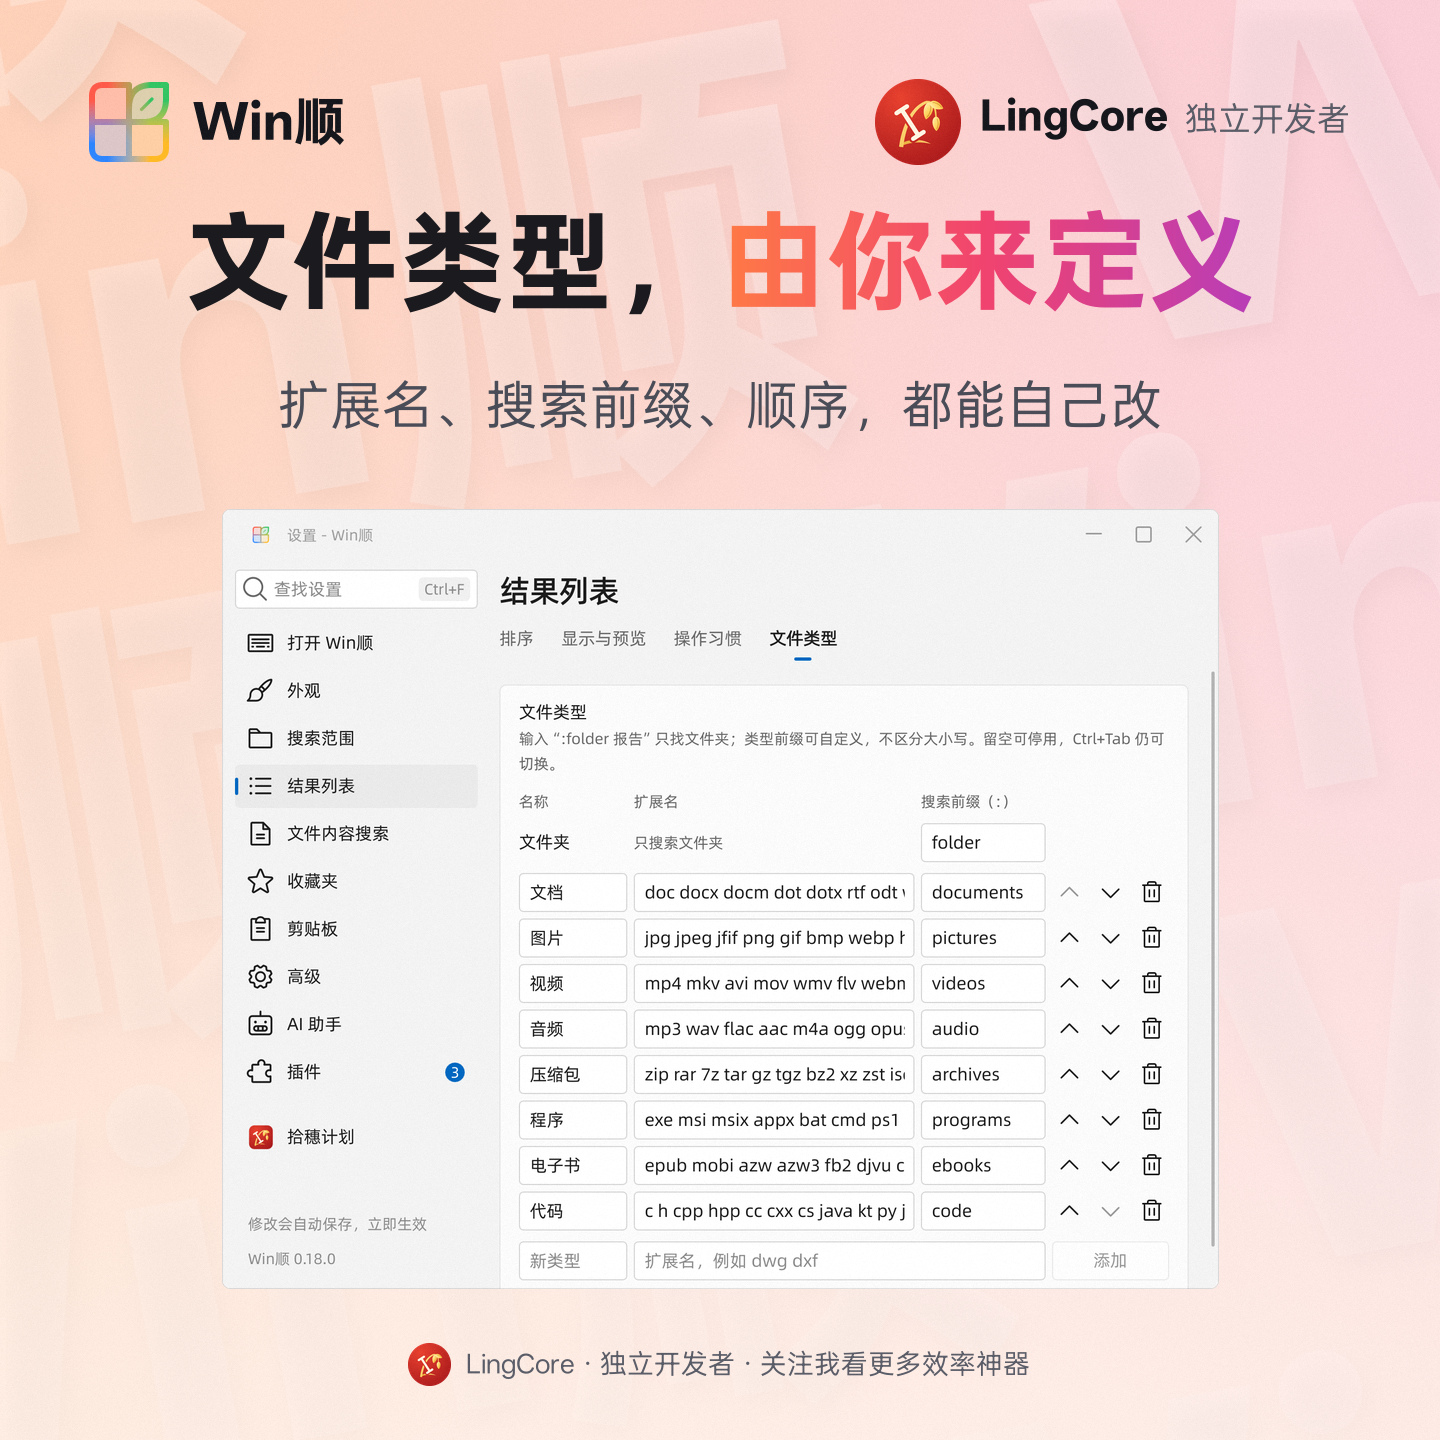
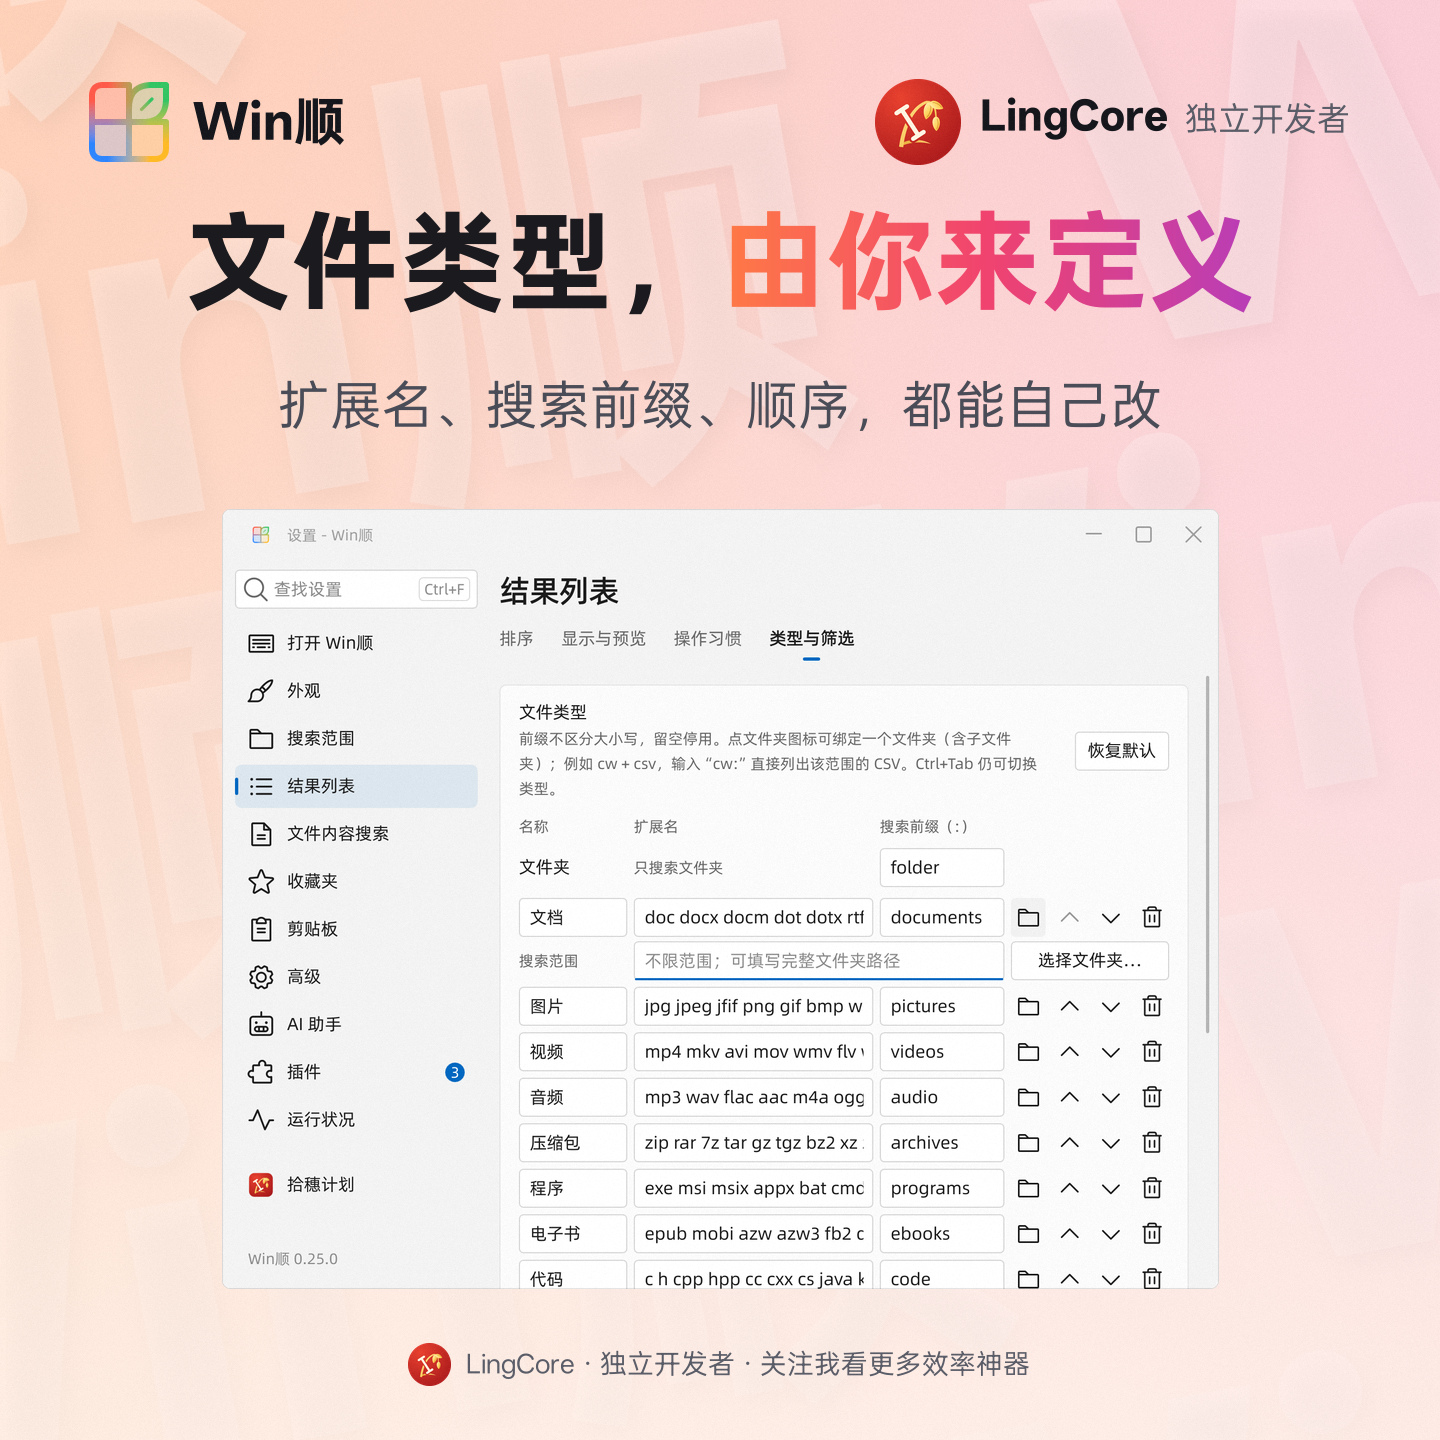
0.25.0 posters: quick filters (new), the first-run setup and the file types redone

diff --git a/tools/screenshots/release025.py b/tools/screenshots/release025.py
@@ -1,0 +1,95 @@
+"""Capture 0.25.0 production previews and export the posters this release changes.
+
+Use a fresh --work for --capture-only, inspect the PNGs and reports, then run
+--export-only with that directory (and --onboarding, the first page from
+tools/verify-onboarding.ps1's `capture` case). One poster is new: the quick
+filters' section of Settings > Result list > Kinds and filters, under a kind
+bound to a folder. The panel's own chips have no poster yet: the navigation
+checks narrow the window and hover a chip, so their pictures (kept under
+--work/navigation as evidence) show a tooltip over the labels. Two are redone because their windows
+changed: the first-run setup (two panes) and the file types (a kind bound to a
+folder, behind an icon button). The other posters stay as 0.24.0 left them.
+"""
+import argparse
+import hashlib
+import json
+import os
+from pathlib import Path
+import shutil
+import subprocess
+import sys
+
+sys.dont_write_bytecode = True
+
+from PIL import Image
+import release017
+import shots
+
+
+# (shot name, raw picture under --work, height kept from its top in pixels)
+release017.SOURCES = {
+    "quick-filters": ("L-quick-filters", "file-types/file-types-bottom.png", None),
+    "file-types": ("L-file-types", "file-types/file-types-top.png", None),
+    "onboarding": ("L-onboarding", "onboarding.png", None),
+}
+
+shots.README_ONLY = tuple(
+    ("onboarding", "L-onboarding", "第一次打开，[两步设好]", "左边试按键，右边做选择，一屏看完不用滚动")
+    if entry[0] == "onboarding" else entry for entry in shots.README_ONLY
+) + (
+    ("quick-filters", "L-quick-filters", "常用条件，[一点就用]", "存成快捷筛选，面板里点一下；文件类型还能绑定文件夹"),
+)
+
+RUNS = (
+    ("settings", "--preview-settings", []),
+    ("file-types", "--preview-settings", ["--file-types"]),
+    ("navigation", "--preview-results", ["--navigation-workflows"]),
+)
+
+
+def capture(exe, work):
+    work.mkdir(parents=True)
+    temporary = work / "temp"
+    temporary.mkdir()
+    environment = {**os.environ, "TEMP": str(temporary), "TMP": str(temporary),
+                   "PYTHONDONTWRITEBYTECODE": "1", "__COMPAT_LAYER": "RunAsInvoker"}
+    try:
+        for folder, flag, extra in RUNS:
+            print("Capturing", folder, flush=True)
+            result = subprocess.run([str(exe), flag, str(work / folder), "--scale", "2", "--renderer", "d3d11", *extra],
+                                    env=environment, timeout=600)
+            print(f"{folder}: exit {result.returncode} (QML warnings, or 4 when a check failed)", flush=True)
+            if result.returncode:
+                result.check_returncode()
+    finally:
+        if temporary.resolve().parent != work.resolve():
+            raise ValueError("Temporary profile path escaped the capture directory")
+        shutil.rmtree(temporary)
+    (work / "capture.json").write_text(json.dumps({
+        "exe": str(exe), "sha256": hashlib.sha256(exe.read_bytes()).hexdigest(),
+        "renderer": "d3d11", "profiles": "isolated production previews", "scale": 2,
+    }, indent=2), encoding="utf-8")
+
+
+def main():
+    parser = argparse.ArgumentParser(description=__doc__)
+    parser.add_argument("--exe", type=Path, required=True)
+    parser.add_argument("--work", type=Path, required=True)
+    parser.add_argument("--onboarding", type=Path)
+    modes = parser.add_mutually_exclusive_group(required=True)
+    modes.add_argument("--capture-only", action="store_true")
+    modes.add_argument("--export-only", action="store_true")
+    args = parser.parse_args()
+    if args.capture_only:
+        if args.work.exists():
+            parser.error("--work must be a fresh directory")
+        capture(args.exe.resolve(strict=True), args.work.resolve())
+        return
+    if args.onboarding:
+        Image.open(args.onboarding).save(args.work / "onboarding.png")
+    sys.argv = [sys.argv[0], "--exe", str(args.exe), "--work", str(args.work), "--export-only"]
+    release017.main()
+
+
+if __name__ == "__main__":
+    main()
